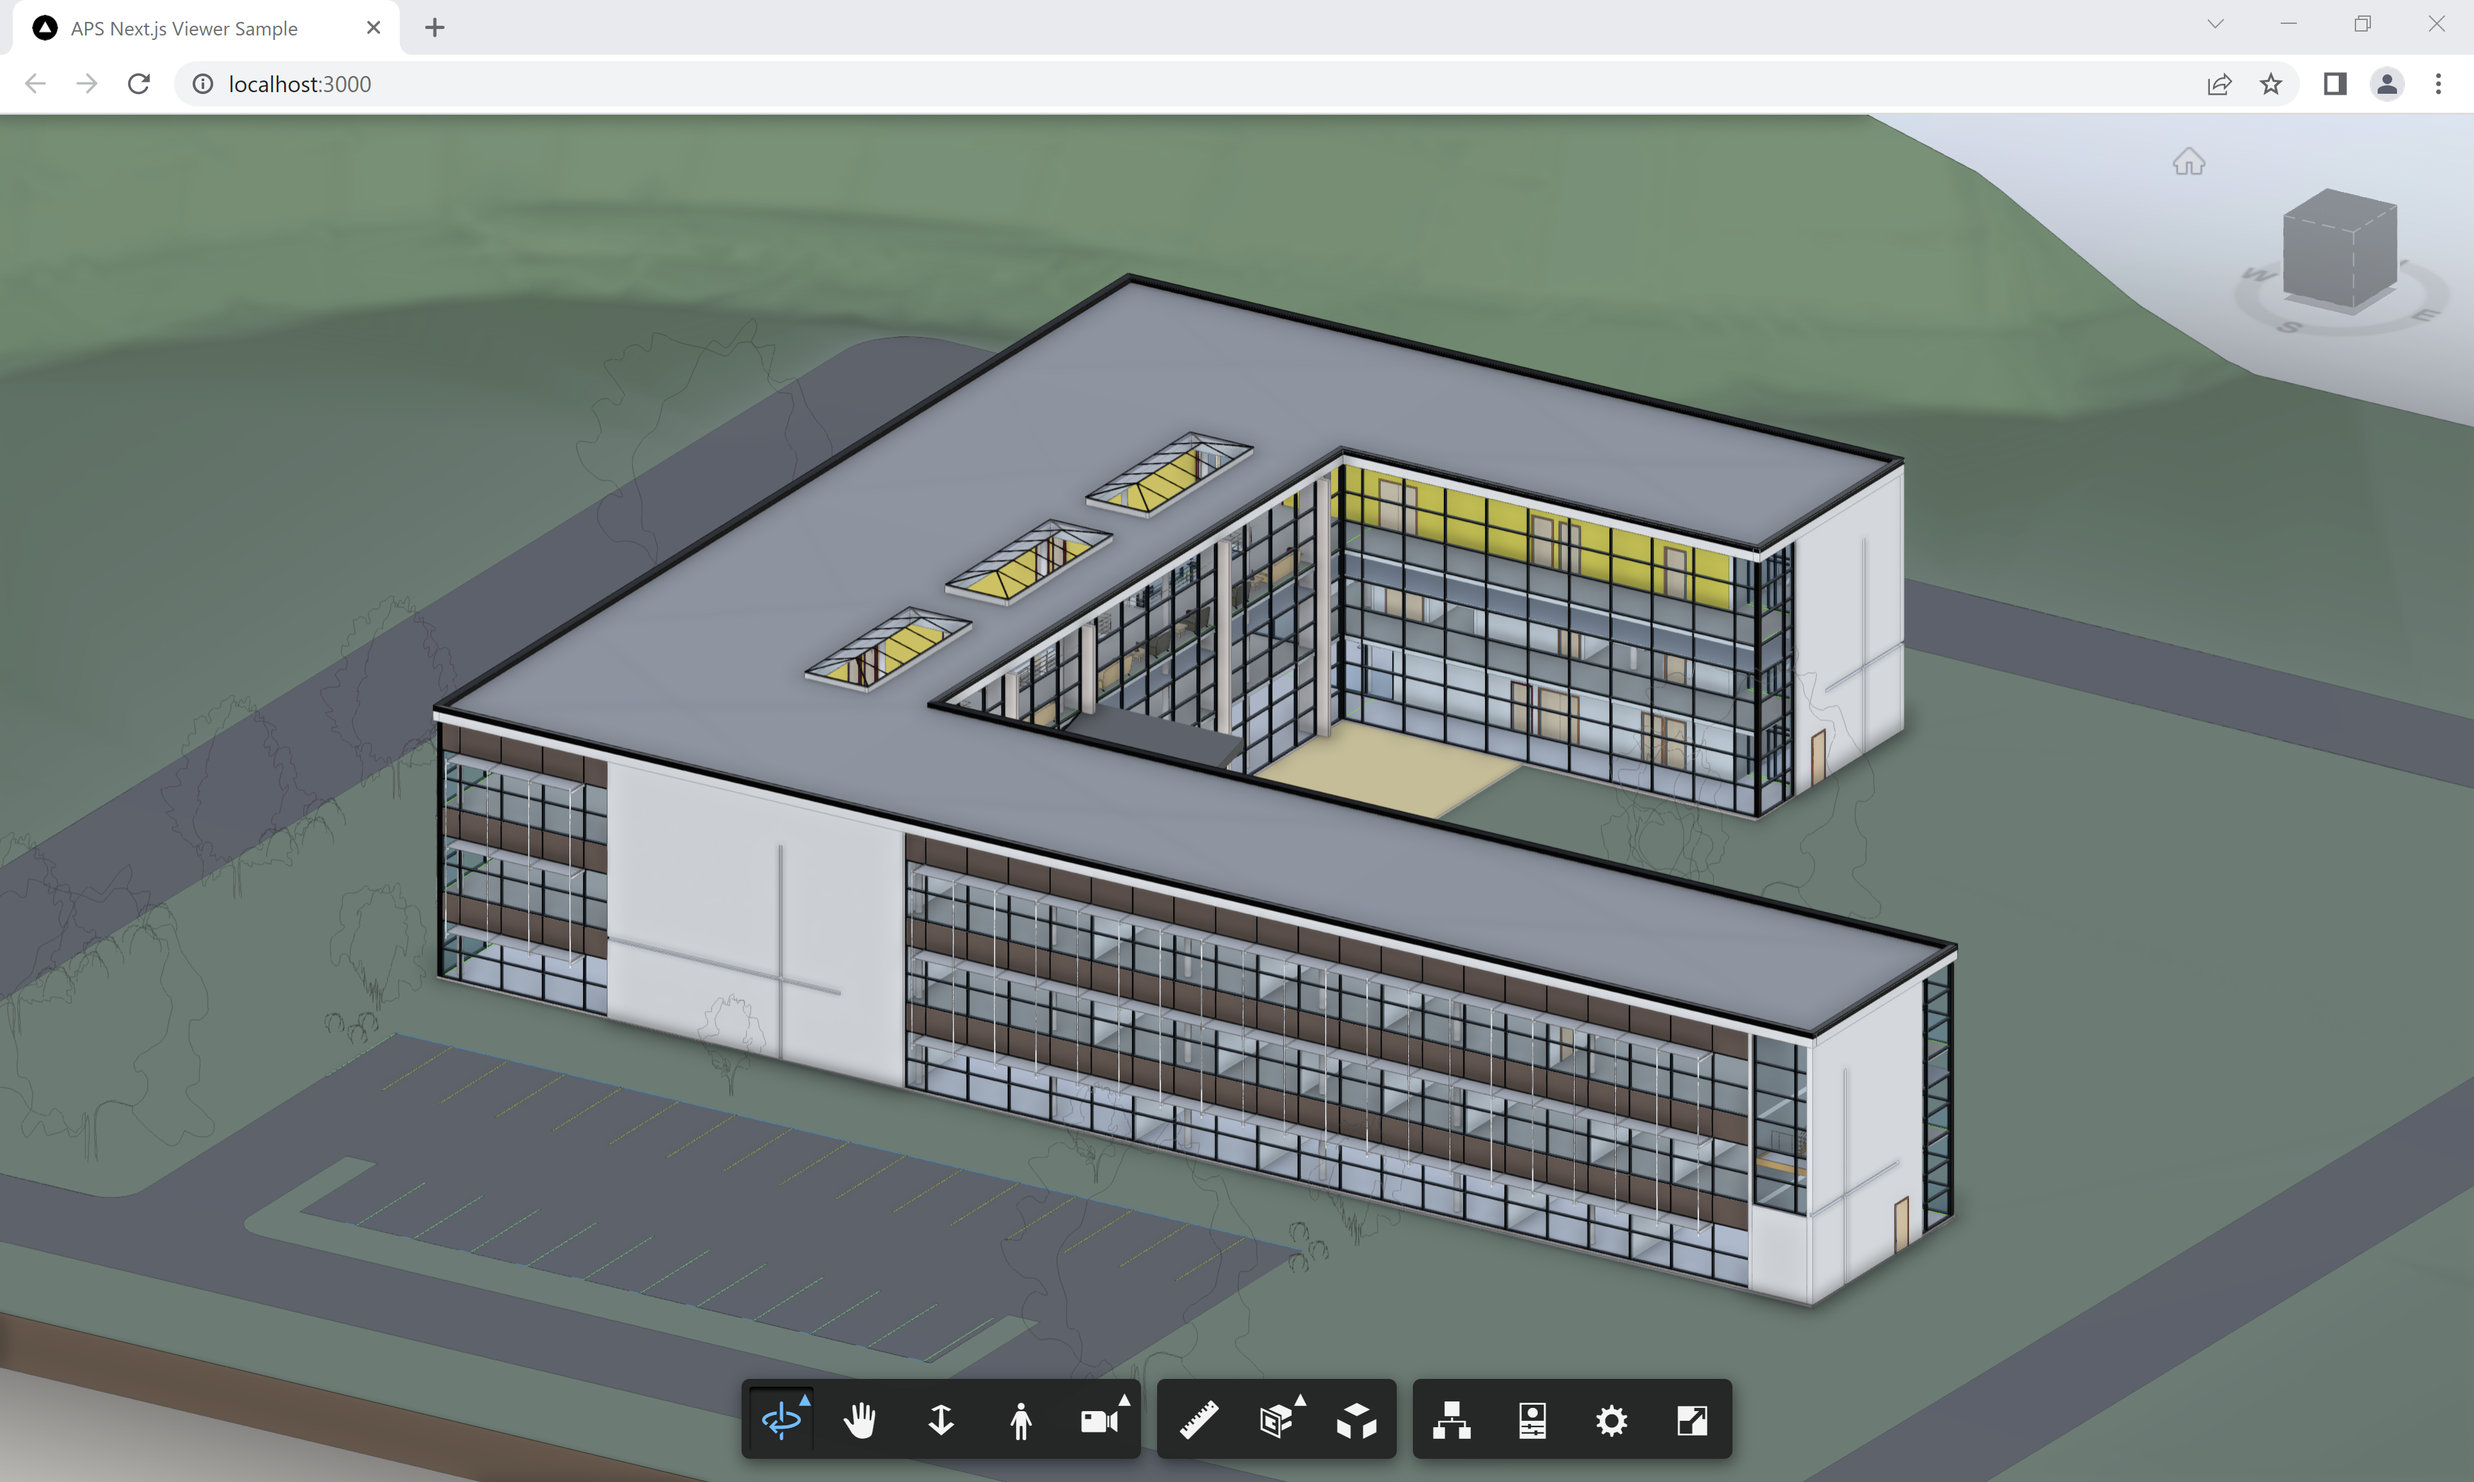
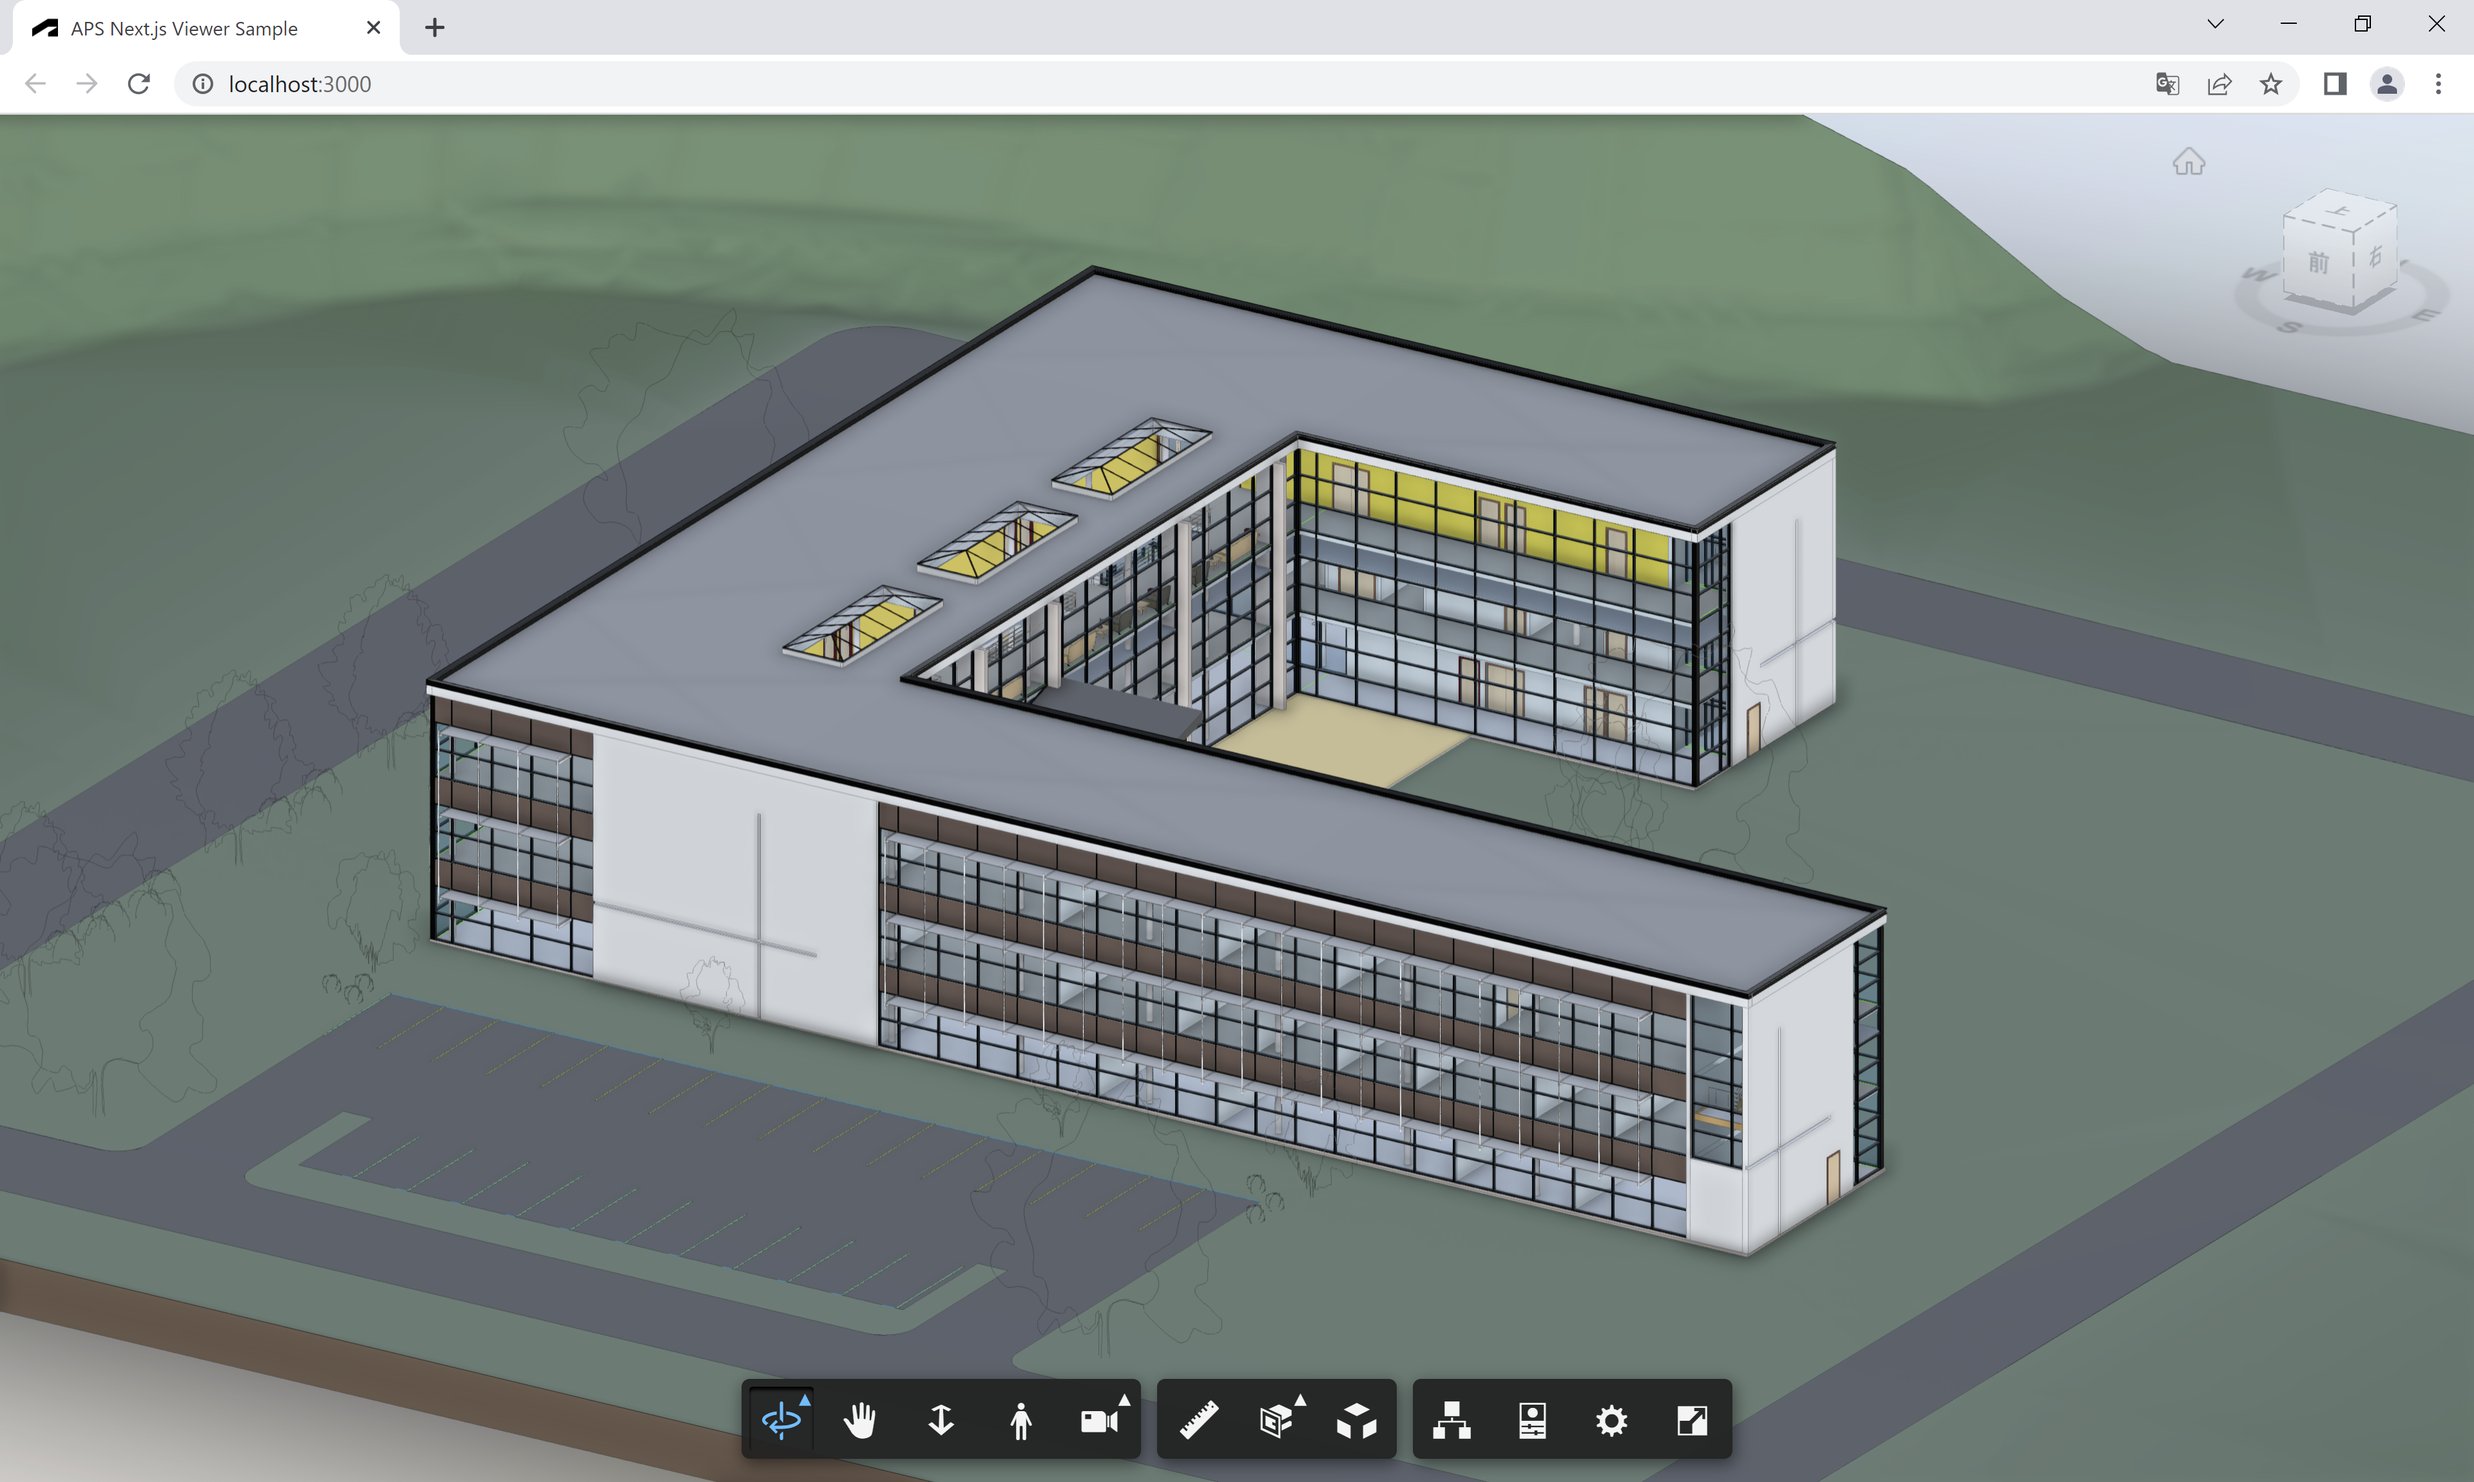
remove public resources

diff --git a/pages/_document.js b/pages/_document.js
@@ -4,6 +4,7 @@ export default function Document() {
   return (
     <Html lang="en">
       <Head>
+        <link rel="icon" type="image/x-icon" href="https://cdn.autodesk.io/favicon.ico" />
         <link rel="stylesheet" href="https://developer.api.autodesk.com/modelderivative/v2/viewers/7.*/style.css" type="text/css"></link>
       </Head>
       <body>
